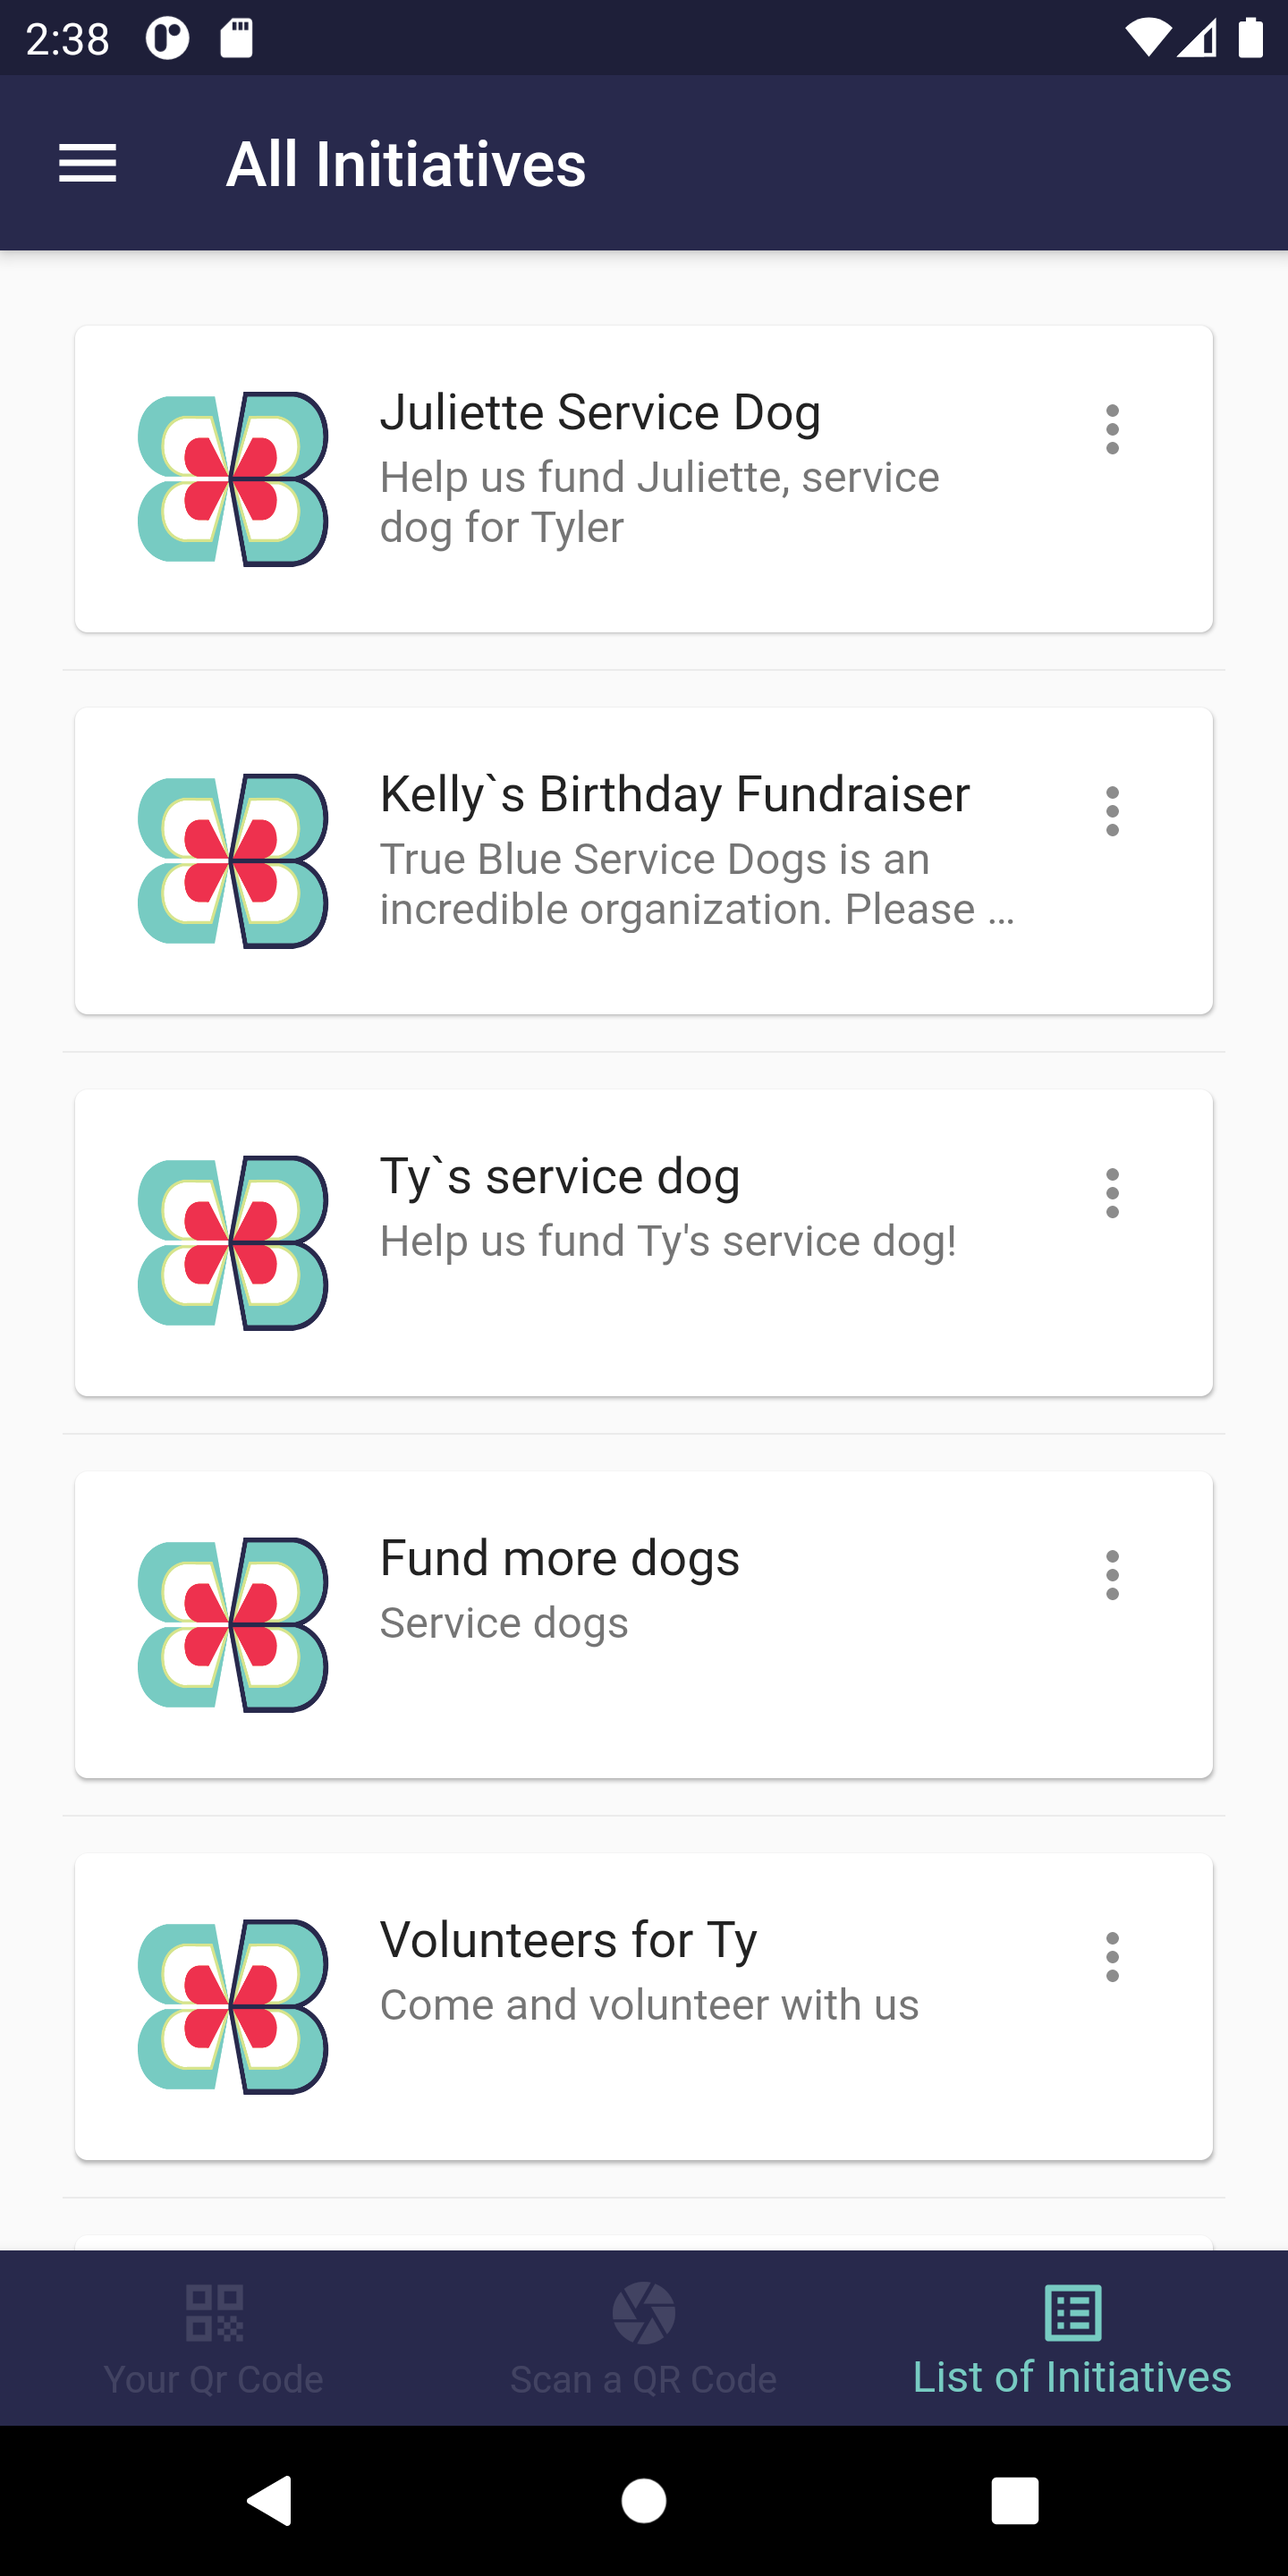
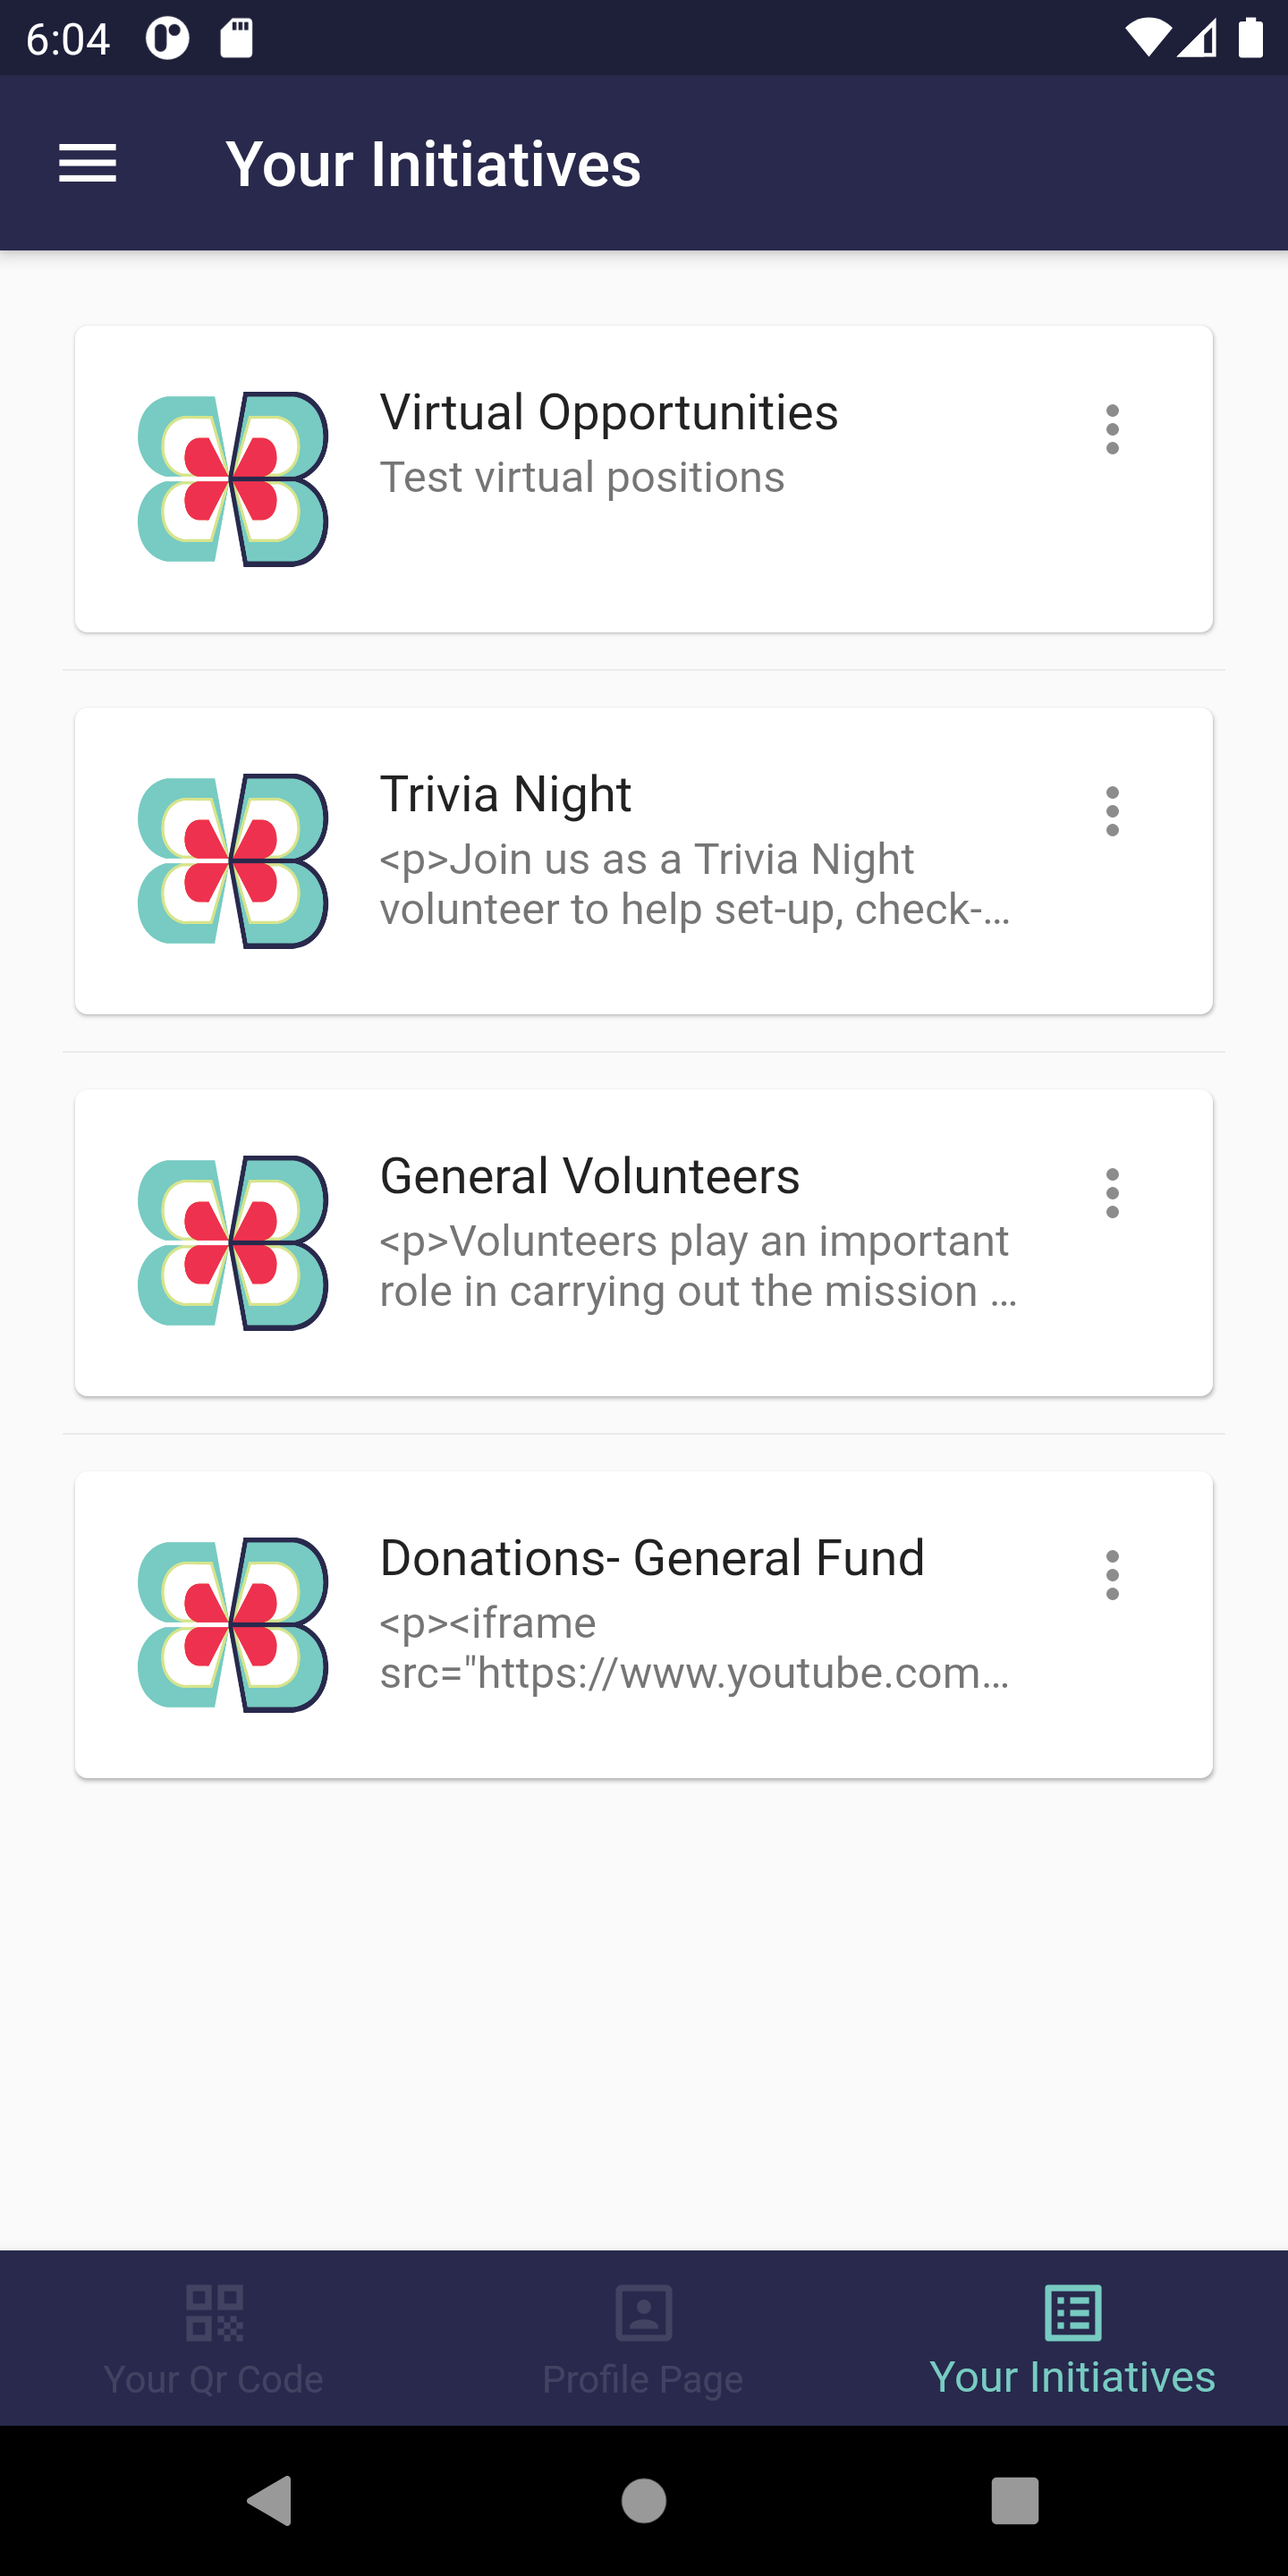
Update User.md with new screenshots and descriptions

diff --git a/Documentation/User.md b/Documentation/User.md
@@ -1,15 +1,14 @@
-# User Documentation
+# Betterflye Mobile User Documentation
 
 Currently using the Betterflye Mobile application users are able to:
 
 1. Create an account on the Betterflye platform
 2. Login using their created credentials
-3. See their unique user QR Code, which directs anyone who scans it to their profile page on the Betterflye website
-4. Scan a QR code, whose results are displayed in the app
-5. View initiatives from the Betterflye platform
-6. Log out of their account
-
-**If a notification pops up to ask for camera permission, be sure to allow the application camera access. If said notification does not show up when you first open the app, you may need to manually allow camera access in your phone's settings.**
+3. See their unique user QR Code, which allows initiative managers to check them in and out of an initiative shift when scanned
+4. View their profile page
+5. View initiatives they manage from the Betterflye platform
+6. Scan another user's QR code to check them in or out of an initiative
+7. Log out of their account
 
 <img src="images/startPage.png" alt="Start page" width="270" height="530"/>
 
@@ -29,21 +28,29 @@ To login to your account, after opening the application, press the login button.
 
 ## View your QR Code
 
-Directly after logging in to the application, you will be directed to your QR code page. This QR code contains your unique profile url, which will direct someone to your profile page on the Betterflye website if they scan your QR code. If you navigate away from this page, you can get back to it by pressing the "Your QR Code" button on the bottom navigation bar.
+Directly after logging in to the application, you will be directed to your QR code page. This QR code contains your unique profile url, which will direct someone to your profile page on the Betterflye website if they scan your QR code. If you navigate away from this page, you can get back to it by pressing the "Your Qr Code" button on the bottom navigation bar.
 
-<img src="images/qrPage.png" alt="Login page" width="270" height="530"/>
+<img src="images/qrPage.png" alt="QR code page" width="270" height="530"/>
 
-## Scan a QR Code
+## View your Profile Page
 
-After pressing the "Scan a QR Code" button on the bottom navigation bar, you are directed to a page where you can scan a QR code. By pressing the "Scan" button, your camera is opened and you have to position your camera so that the QR code is within the square on your screen. Hold the camera in this position until the scan is finished, when you will be directed back to the Scan page, where the result will be displayed in a pop-up bar.
+By clicking the "Profile Page" button on the bottom navigation bar, you will be directed to your user profile page. This page contains your first and last name, along with your impact score, current volunteer hours, and total amount of money donated.
 
-<img src="images/scanPage.png" alt="Scan page" width="270" height="530" hspace="5"/><img src="images/cameraScreen.png" alt="Camera page" width="270" height="530" hspace="5"/><img src="images/snackBar.png" alt="Scan result" width="270" height="530" hspace="5"/>
+<img src="images/profile.png" alt="Profile page" width="270" height="530" hspace="5"/>
 
-## View Betterflye Initiatives
+## View Initiatives You Manage
 
-After pressing the "List of Initiatives" button on the bottom navigation bar, you are directed to a page where you see a list of initiatives from the Betterflye platform. You can click on any initiative from the list to see expanded details of that particular initiative. Press the arrow in the top left of the screen to go back to the list of all the initiatives.
+After pressing the "Your Initiatives" button on the bottom navigation bar, you are directed to a page where you see a list of initiatives from the Betterflye platform that you manage. If you do not manage any, none will show up.
 
-<img src="images/initiativeList.png" alt="Initiative list" width="270" height="530" hspace="5"/><img src="images/initiativeDetails.png" alt="Initiative details" width="270" height="530" hspace="5"/>
+<img src="images/initiativeList.png" alt="Initiative list" width="270" height="530" hspace="5"/><img src="images/noInitsFound.png" alt="No initiatives found" width="270" height="530" hspace="5"/>
+
+## Check a User In or Out of an Initiative Shift
+
+From the initiative list seen above, you can click on any initiative to see a list of shifts for that initiative. Next, you press the "Check In/Out" button, and scan the user's QR code to check them in if they need checked in, or it checks them out if they are already checked in.
+
+<img src="images/shiftPage.png" alt="Initiative shift page" width="270" height="530" hspace="5"/><img src="images/cameraScreen.png" alt="Camera screen"  width="270" height="530" hspace="5">
+
+**If Betterflye does not have camera access on your phone, you will be notified when you try to scan a QR code and directed to your settings to allow access.**
 
 ## Logout of your Account
 
